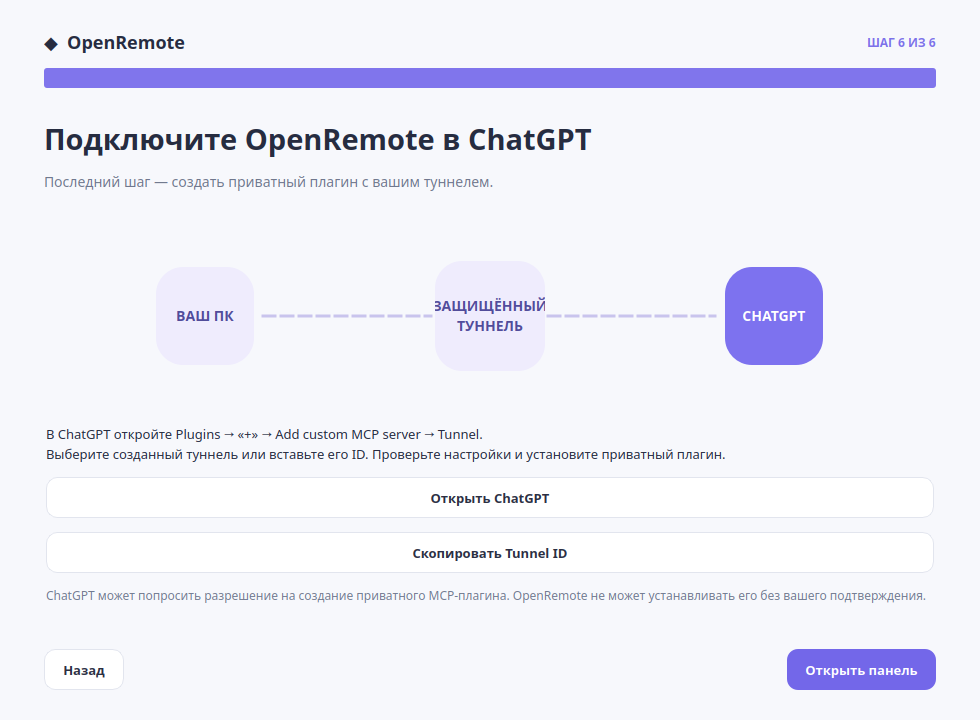
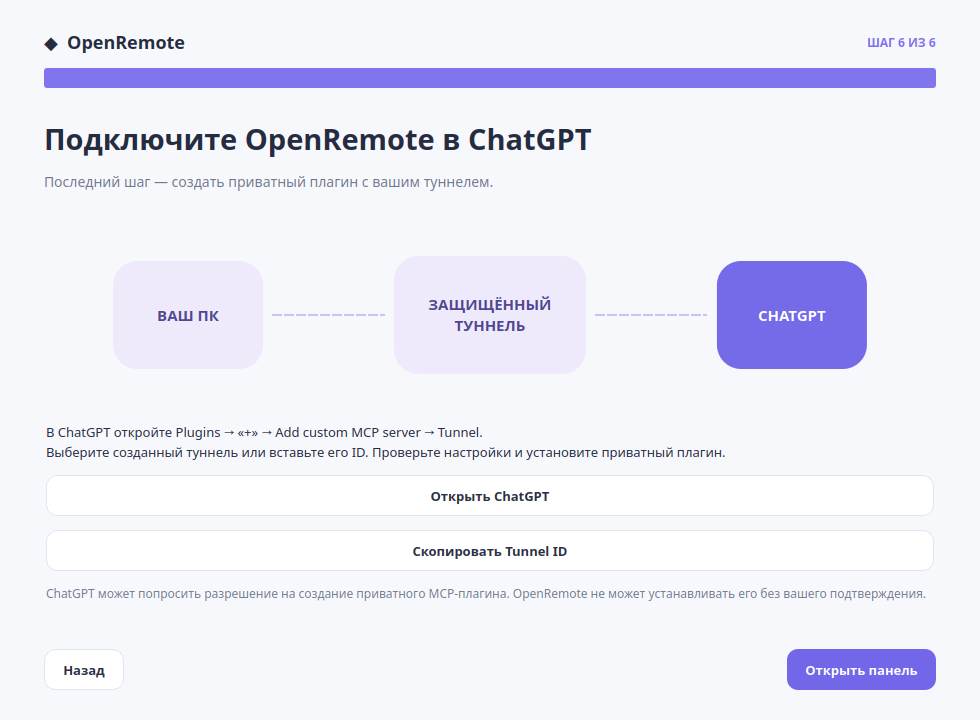
fix: reuse existing Linux agent config and fit onboarding labels

diff --git a/openremote_gui/wizard.py b/openremote_gui/wizard.py
@@ -12,7 +12,7 @@ import shutil
 import socket
 import sys
 
-from PySide6.QtCore import Qt, QTimer, QObject, Signal, QRunnable, QThreadPool, QUrl
+from PySide6.QtCore import Qt, QRectF, QTimer, QObject, Signal, QRunnable, QThreadPool, QUrl
 from PySide6.QtGui import QColor, QDesktopServices, QFont, QPainter, QPen, QBrush, QPixmap
 from PySide6.QtWidgets import (
     QApplication, QCheckBox, QDialog, QFileDialog, QFrame, QHBoxLayout,
@@ -143,38 +143,68 @@ assert set(COPY["ru"]) == set(COPY["en"])
 
 
 class Diagram(QWidget):
-    """Native vector infographic; no web requests or asset downloads."""
+    """Scale-aware diagram with all labels constrained within their cards."""
+
     def __init__(self, parent=None, active=1):
         super().__init__(parent)
         self.active = active
-        self.setMinimumHeight(190)
-        self.setMaximumHeight(230)
+        self.setMinimumHeight(188)
+        self.setMaximumHeight(220)
         self.language = "ru"
+        self.setAccessibleName("OpenRemote: computer, secure tunnel, ChatGPT")
+
+    def geometry_for(self, width: float):
+        """Return three non-overlapping node rectangles and connector segments."""
+        w = max(float(width), 550.0)
+        mid_width = min(192.0, max(170.0, w * .235))
+        end_width = min(150.0, max(116.0, w * .19))
+        centers = (w * .16, w * .5, w * .84)
+        box_height = 108.0
+        y = (self.height() - box_height) / 2.0
+        boxes = [
+            QRectF(centers[0] - end_width/2, y, end_width, box_height),
+            QRectF(centers[1] - mid_width/2, y - 5, mid_width, box_height + 10),
+            QRectF(centers[2] - end_width/2, y, end_width, box_height),
+        ]
+        return boxes
+
+    def font_for_label(self, label: str, available_width: float, painter: QPainter):
+        font = QFont(painter.font())
+        font.setWeight(QFont.Weight.DemiBold)
+        # Text is measured, never blindly painted outside its rounded card.
+        for size in range(15, 9, -1):
+            font.setPixelSize(size)
+            from PySide6.QtGui import QFontMetrics
+            metrics = QFontMetrics(font)
+            if all(metrics.horizontalAdvance(line) <= available_width
+                   for line in label.splitlines()):
+                return font
+        font.setPixelSize(10)
+        return font
 
     def paintEvent(self, event):
         painter = QPainter(self)
         painter.setRenderHint(QPainter.RenderHint.Antialiasing)
-        width = self.width()
-        cy = self.height() // 2
-        centers = (int(width * .18), int(width * .50), int(width * .82))
-        painter.setPen(QPen(QColor("#C9C4ED"), 3, Qt.PenStyle.DashLine))
-        painter.drawLine(centers[0] + 58, cy, centers[1] - 59, cy)
-        painter.drawLine(centers[1] + 58, cy, centers[2] - 59, cy)
-        captions = [COPY[self.language][n] for n in
+        boxes = self.geometry_for(self.width())
+        cy = float(self.height()) / 2
+        painter.setPen(QPen(QColor("#C9C4ED"), 2, Qt.PenStyle.DashLine))
+        painter.drawLine(int(boxes[0].right() + 10), int(cy),
+                         int(boxes[1].left() - 10), int(cy))
+        painter.drawLine(int(boxes[1].right() + 10), int(cy),
+                         int(boxes[2].left() - 10), int(cy))
+        captions = [COPY[self.language][key] for key in
                     ("diagram_device", "diagram_cloud", "diagram_chat")]
-        for i, cx in enumerate(centers):
-            size = 110 if i == 1 else 98
-            color = QColor("#7D72EF") if i == self.active else QColor("#EFECFD")
+        for i, rect in enumerate(boxes):
             painter.setPen(Qt.PenStyle.NoPen)
-            painter.setBrush(QBrush(color))
-            painter.drawRoundedRect(cx - size // 2, cy - size // 2, size, size, 27, 27)
-            painter.setPen(QColor("#FFFFFF" if i == self.active else "#514C9A"))
-            f = painter.font()
-            f.setPixelSize(14)
-            f.setWeight(QFont.Weight.Bold)
-            painter.setFont(f)
-            painter.drawText(cx-size//2, cy-size//2, size, size,
-                             Qt.AlignmentFlag.AlignCenter, captions[i])
+            painter.setBrush(QBrush(QColor("#756AE7") if i == self.active
+                                   else QColor("#EEEAFB")))
+            painter.drawRoundedRect(rect, 24, 24)
+            color = QColor("#FFFFFF" if i == self.active else "#4F478F")
+            painter.setPen(QPen(color))
+            text_rect = rect.adjusted(12, 8, -12, -8)
+            painter.setFont(self.font_for_label(captions[i], text_rect.width(), painter))
+            painter.drawText(text_rect, Qt.AlignmentFlag.AlignCenter,
+                             captions[i])
         painter.end()
 
 

diff --git a/tests/test_gui_ui.py b/tests/test_gui_ui.py
@@ -37,6 +37,68 @@ class GuiOffscreenTests(unittest.TestCase):
     def tearDown(self):
         self.tmp.cleanup()
 
+    def test_existing_hostname_config_detected(self):
+        from openremote_gui.app import discover_config
+        base = Path(self.tmp.name)
+        config_dir = base / ".config" / "openremote-agent"
+        config_dir.mkdir(parents=True, exist_ok=True)
+        older = config_dir / "terra-v0.5-test.json"
+        older.write_text("{}")
+        actual = config_dir / "terra.json"
+        actual.write_text("{}")
+        self.assertEqual(discover_config(home=base, host="terra"), actual)
+        # Caller-specified config always wins.
+        self.assertEqual(discover_config(explicit=older, home=base, host="terra"), older)
+
+    def test_diagram_text_is_inside_all_cards_at_supported_sizes(self):
+        from openremote_gui.wizard import Diagram, COPY
+        from PySide6.QtGui import QFontMetrics
+        from PySide6.QtGui import QPixmap, QPainter
+        from PySide6.QtCore import Qt
+        for language in ("ru", "en"):
+            for width in (690, 740, 890, 1060):
+                view = Diagram()
+                view.language = language
+                view.resize(width, 200)
+                boxes = view.geometry_for(width)
+                self.assertEqual(len(boxes), 3)
+                self.assertLess(boxes[0].right() + 8, boxes[1].left())
+                self.assertLess(boxes[1].right() + 8, boxes[2].left())
+                surface = QPixmap(width, 200)
+                painter = QPainter(surface)
+                try:
+                    for idx, key in enumerate(("diagram_device", "diagram_cloud", "diagram_chat")):
+                        caption = COPY[language][key]
+                        font = view.font_for_label(caption, boxes[idx].width() - 24, painter)
+                        fm = QFontMetrics(font)
+                        self.assertLessEqual(
+                            max(map(fm.horizontalAdvance, caption.splitlines())),
+                            boxes[idx].width() - 24,
+                            f"{language}: {key} @ width {width}")
+                finally:
+                    painter.end()
+
+    def test_remote_online_indicator_uses_green_badge(self):
+        from openremote_gui.app import MainWindow
+        from openremote_gui.backend import Backend
+        from PySide6.QtWidgets import QLabel
+        window = MainWindow(Backend(self.config))
+        try:
+            sample = window.backend.snapshot()
+            sample["peers"] = ["rock"]
+            window._snapshot = sample
+            window._peer_ready({"device_id": "rock", "online": True})
+            self.app.processEvents()
+            badge = window.findChild(QLabel, "deviceStatus_rock")
+            self.assertIsNotNone(badge)
+            self.assertTrue(any(label in badge.text() for label in ("Online", "В сети")))
+            self.assertIn("#18A77A", badge.styleSheet())
+        finally:
+            window._closing = True
+            window.pool.waitForDone(5000)
+            window.close()
+            window.deleteLater()
+
     def test_pages_theme_and_no_tray_fallback(self):
         from openremote_gui.app import MainWindow
         from openremote_gui.backend import Backend

diff --git a/openremote_gui/app.py b/openremote_gui/app.py
@@ -7,6 +7,7 @@ arguments, process stdout or binary payloads are rendered by the UI.
 from __future__ import annotations
 
 import argparse
+import socket
 from datetime import datetime
 from pathlib import Path
 import sys
@@ -825,10 +826,40 @@ def _single_instance(name):
     return server, lock
 
 
+
+def discover_config(explicit: Path | None = None,
+                    home: Path | None = None,
+                    host: str | None = None) -> Path:
+    """Reuse an existing authorized device config before starting onboarding.
+
+    No file writes. With multiple configs, prefer the current hostname
+    rather than accidentally using old test or rollback configurations.
+    """
+    if explicit is not None:
+        return Path(explicit).expanduser().absolute()
+    base = (home or Path.home()) / ".config" / "openremote-agent"
+    default = base / "agent.json"
+    if default.is_file() and not default.is_symlink():
+        return default
+    local_name = host or socket.gethostname()
+    local_name = local_name.split(".", 1)[0]
+    named = base / (local_name + ".json")
+    if named.is_file() and not named.is_symlink():
+        return named
+    candidates = [
+        x for x in base.glob("*.json")
+        if x.name != default.name and not x.is_symlink()
+        and "-test" not in x.stem and "-v0." not in x.stem
+        and "rollback" not in x.stem
+    ]
+    if len(candidates) == 1:
+        return candidates[0]
+    return default
+
 def main(argv=None):
     parser = argparse.ArgumentParser(description="OpenRemote Control Center (optional GUI)")
-    parser.add_argument("--config", type=Path,
-                        default=Path.home() / ".config/openremote-agent/agent.json")
+    parser.add_argument("--config", type=Path, default=None,
+                        help="Private agent config (auto-detects hostname.json when omitted)")
     parser.add_argument("--health-url", default="http://127.0.0.1:18767/readyz")
     parser.add_argument("--screenshot", type=Path, default=None,
                         help="Offscreen UI screenshot and exit")
@@ -843,6 +874,7 @@ def main(argv=None):
                         help="Offscreen setup-wizard screenshot and exit")
     parser.add_argument("--wizard-step", type=int, choices=range(6), default=0)
     args = parser.parse_args(argv)
+    args.config = discover_config(args.config)
     app = QApplication(sys.argv[:1])
     app.setApplicationName("OpenRemote")
     app.setDesktopFileName("openremote-control-center")

diff --git a/openremote_agent/__init__.py b/openremote_agent/__init__.py
@@ -1,2 +1,2 @@
 """OpenRemote: защищённое локальное ядро удалённого MCP-агента."""
-__version__ = "0.6.0"
+__version__ = "0.6.1"

diff --git a/docs/releases/v0.6.1.md b/docs/releases/v0.6.1.md
@@ -1,0 +1,24 @@
+# OpenRemote v0.6.1 — Linux desktop hotfix (preview)
+
+This is a small corrective release for the Linux-only OpenRemote GUI and first-run experience. The existing MCP agent, runtime credentials, SSH peers and systemd tunnel services are unchanged.
+
+## Fixed
+
+- The Russian **Secure Tunnel** label now fits inside its infographic. All three captions are measured against the available card width and scale down only when necessary. Tested with Russian and English labels at several logical window widths.
+- The GUI detects an existing hostname-matched private agent configuration, such as `workstation.json`, instead of always launching onboarding when `agent.json` is absent.
+- A private agent configuration supplied with `--config` still takes precedence.
+- UI regression tests cover label widths, correct local configuration selection and visible online status badges.
+
+## Tested
+
+- Linux x86_64 / GNOME Wayland. The user-scoped copy extracted from the .deb starts a real Qt application and displays the dashboard without re-entering credentials.
+- Existing tunnel service remains active. A registered SSH peer was tested separately through the GUI backend.
+- Python unit tests, Qt offscreen screenshots and Linux Debian build were rerun.
+- The fresh .deb package still depends on PyPI on its first launch and requires external OpenAI tunnel-client installation for *new* users.
+- A user-scoped extraction of the .deb is not a system-wide dpkg installation. System installation requires administrator approval.
+
+## Platform compatibility
+
+Windows .exe and native macOS packages remain **unreleased and untested**. The Linux amd64 package is a preview, not a stable, fully offline release.
+
+See [ONBOARDING](../ONBOARDING.md), [GUI](../GUI.md), and [SECURITY](../SECURITY.md).

diff --git a/docs/ONBOARDING.md b/docs/ONBOARDING.md
@@ -143,3 +143,29 @@ A Windows installer will require Windows-native filesystem/process/permission
 handling and integration tests, not just bundling the current Linux agent
 into an executable. Do not publish or label a Windows/macOS installer as
 working until those tests pass.
+
+## Reusing an existing authorized agent after an update
+
+OpenRemote discovers \`~/.config/openremote-agent/agent.json\` first, then
+a config named after the computer's hostname (for example \`terra.json\`).
+The dashboard opens immediately when such a configuration exists, so you
+**do not need to register again, create a new tunnel, or enter the API key**.
+The GUI is independent of the existing \`systemd --user\` tunnel.
+
+An explicit \`--config PATH\` always overrides discovery.
+
+### Linux troubleshooting
+
+If the desktop menu opens an outdated version, check whether your home
+directory contains an older \`~/.local/share/applications/openremote-control-center.desktop\`
+file. User desktop entries override matching system-wide entries. Remove or
+update the older entry after backing it up; restarting the tunnel service
+is not necessary. When system package privileges are not available,
+the \`.deb\` can also be extracted into an owner-only home directory and
+launched with \`OPENREMOTE_ASSET_ROOT\` pointing to the extracted wheel.
+This installs the GUI **for that user only**; it is not the same as a
+system-wide \`dpkg\` installation.
+
+The 0.6.1 preview fixes a fixed-width illustration that caused the
+Russian “SECURE TUNNEL” label to overflow. The labels are now measured
+before painting, tested at several window sizes in both languages.

diff --git a/README.md b/README.md
@@ -16,7 +16,7 @@
 - **Parallel chats:** SQLite WAL, per-target file locks, bounded OS command slots, and optional task labels/idempotency keys prevent common conflicts between independent conversations.
 - **Optional Linux desktop GUI:** a minimal dashboard with device checks, jobs, transfers, light/dark appearance, and minimize-to-tray on supported desktops.
 
-**Current development version:** 0.6.0, Linux only, Python 3.11+, MCP SDK 1.29.0. This project is under active development and is not a production-grade multi-user remote-administration service.
+**Current development version:** 0.6.1, Linux only, Python 3.11+, MCP SDK 1.29.0. This project is under active development and is not a production-grade multi-user remote-administration service.
 
 ## Install and connect in six steps — Linux .deb preview
 
@@ -43,6 +43,14 @@ available or verified** yet.
 
 Read [first-run onboarding and Debian package details](docs/ONBOARDING.md)
 for requirements, screenshots, security boundaries and recovery.
+
+**Existing installations** automatically prefer a valid user-owned
+\`~/.config/openremote-agent/agent.json\`, then a hostname-matched
+\`<device>.json\` (such as \`terra.json\` on terra). In that case the GUI
+opens the dashboard and **does not run first-time tunnel onboarding again**.
+The existing runtime key, tunnel profile and user service are left unchanged.
+No root access is required for a user-scoped launcher extracted from the Debian
+package, though a true system \`dpkg\` installation requires administrator rights.
 
 ## Optional desktop Control Center
 

diff --git a/docs/RELEASES.md b/docs/RELEASES.md
@@ -5,7 +5,7 @@ GUI preview**. This is not yet a maintained native Windows/macOS application.
 Qt offscreen rendering has been tested; real system-tray integration must
 also be verified on an actual graphical desktop.
 
-## Compatibility matrix for v0.6.0
+## Compatibility matrix for v0.6.1
 
 | OS | Architecture | Status | Evidence |
 | --- | --- | --- | --- |
@@ -56,4 +56,4 @@ and tests on actual Intel/Apple Silicon machines.
 If experimental packages are ever uploaded, label them explicitly as
 Not tested / Experimental / No support guarantee, not as verified releases.
 
-See [v0.6.0 preview notes](releases/v0.6.0.md), [v0.5.0 development notes](releases/v0.5.0.md), [v0.4.0 notes](releases/v0.4.0.md) and the earlier [v0.3.1 draft](releases/v0.3.1.md).
+See [v0.6.1 hotfix notes](releases/v0.6.1.md), [v0.6.0 preview notes](releases/v0.6.0.md), [v0.5.0 development notes](releases/v0.5.0.md), [v0.4.0 notes](releases/v0.4.0.md) and the earlier [v0.3.1 draft](releases/v0.3.1.md).
